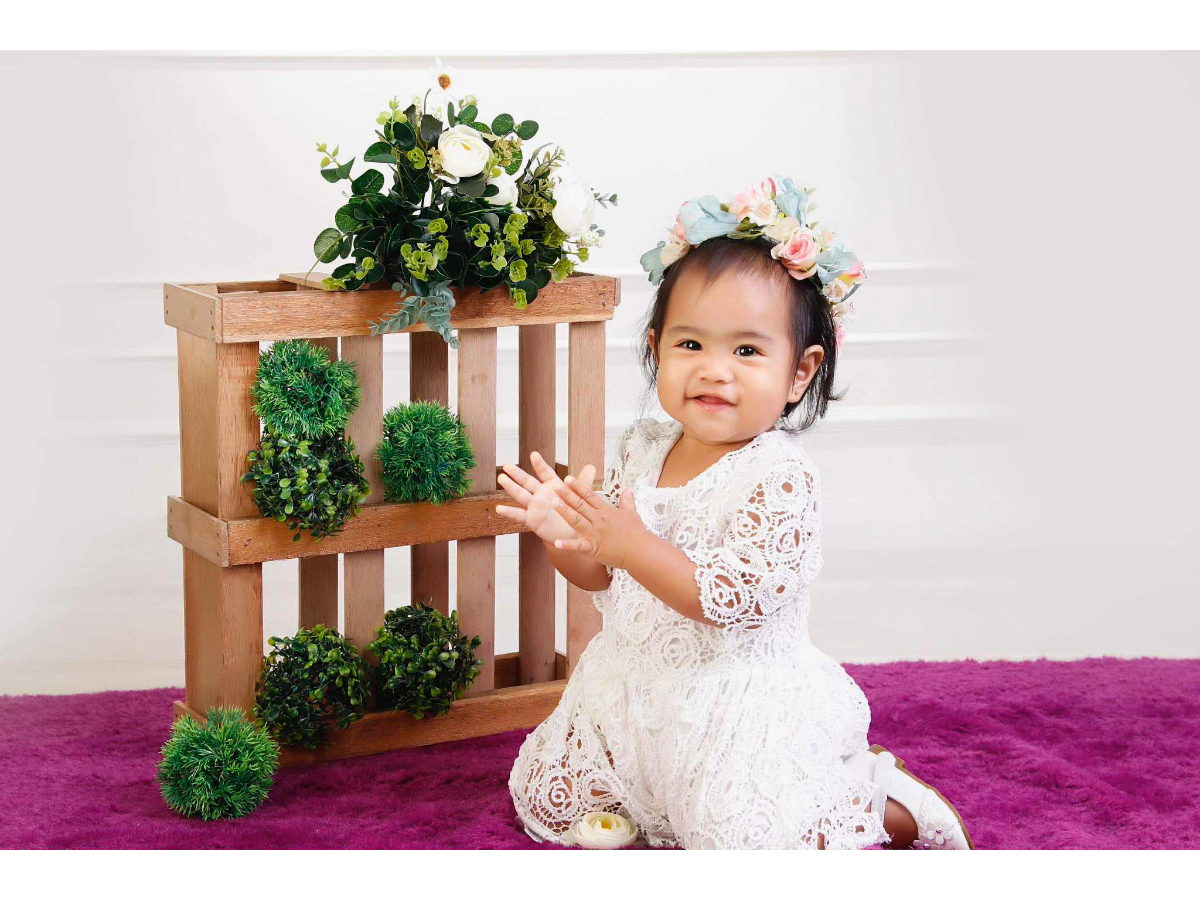
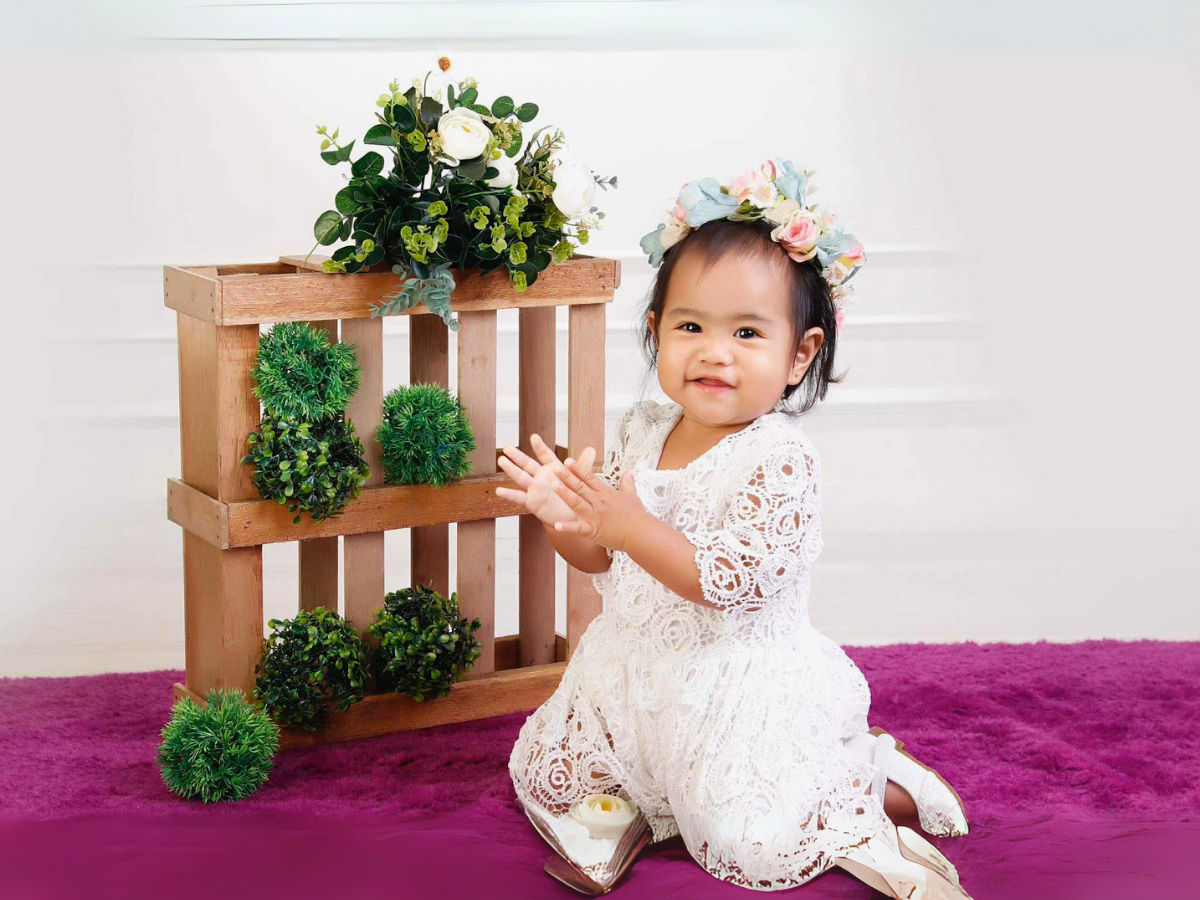
update images

diff --git a/styles.css b/styles.css
@@ -488,19 +488,16 @@ html {
     aspect-ratio: 1;
     max-width: 400px;
     margin: 0 auto;
-    border-radius: var(--radius-medium);
     overflow: hidden;
-    box-shadow: 0 12px 24px rgba(0, 0, 0, 0.15);
-    background: linear-gradient(45deg, var(--color-tertiary), var(--color-primary));
+    /* box-shadow: 0 12px 24px rgba(0, 0, 0, 0.15); */
 }
 
 .story-image {
     width: 100%;
     height: 100%;
-    object-fit: cover;
+    object-fit:cover;
     object-position: center;
     transition: transform 0.3s ease;
-    border-radius: var(--radius-medium);
 }
 
 .story-image:hover {
@@ -511,8 +508,11 @@ html {
     content: '';
     position: absolute;
     inset: 0;
-    background: linear-gradient(45deg, transparent 0%, rgba(255, 255, 255, 0.1) 100%);
     pointer-events: none;
+}
+
+.story-image-container img {
+    border-radius: var(--radius-medium);
 }
 
 .story-text {

diff --git a/index.html b/index.html
@@ -98,8 +98,8 @@
                     <h2 class="story-title" id="storyTitle">Once upon a time...</h2>
 
                     <div class="story-image-container">
-                        <img src="https://ik.imagekit.io/e3wiv79bq/cover.png?updatedAt=1757587967248"
-                            alt="Story illustration" class="story-image" id="storyImage">
+                        <img src="https://ik.imagekit.io/e3wiv79bq/header-image-Photoroom.png?updatedAt=1758197452989"
+                            alt="Story illustration" class="story-image" id="storyImage" loading="lazy">
                     </div>
 
                     <p class="story-text" id="storyText">
